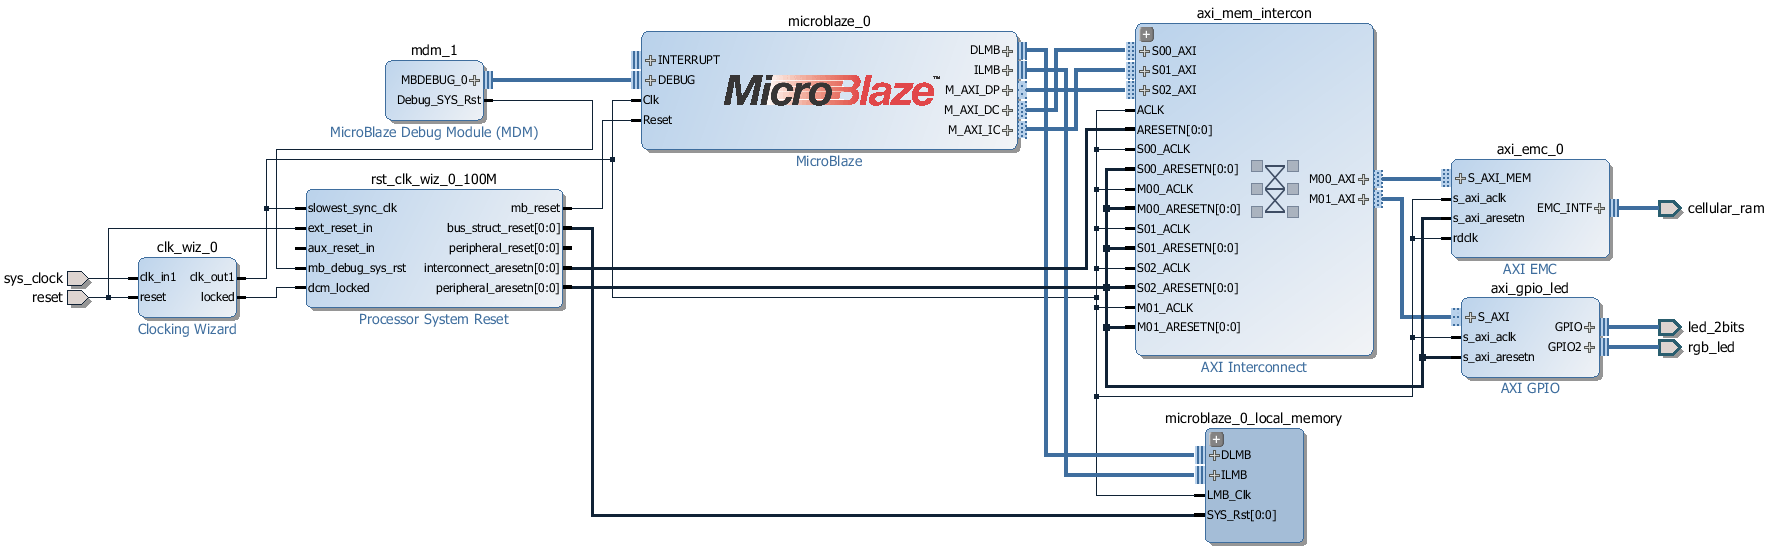
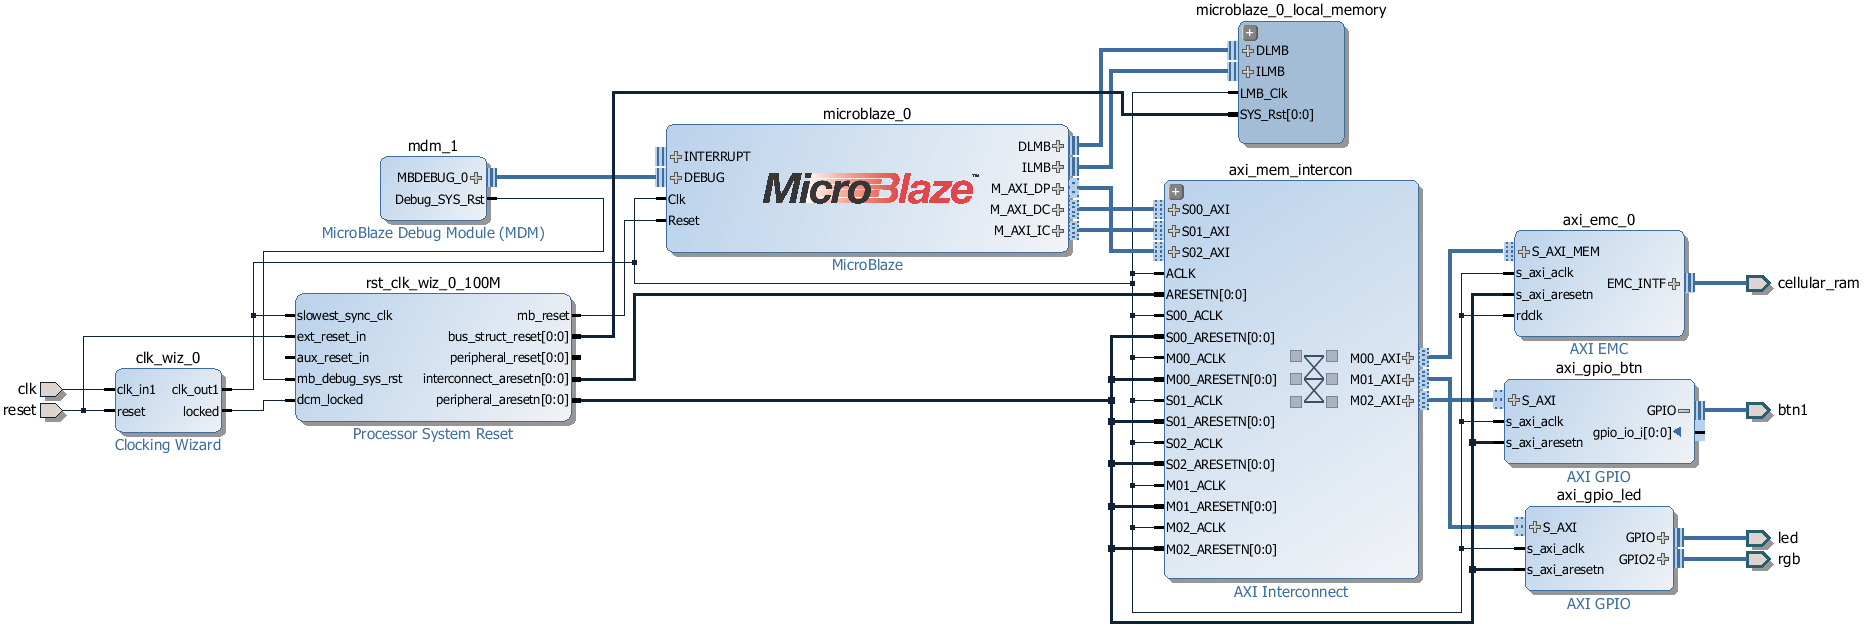
update

diff --git a/cmoda7/helloworld_microblaze/fpga_sw/main.c b/cmoda7/helloworld_microblaze/fpga_sw/main.c
@@ -1,27 +1,18 @@
 #include "xparameters.h"
 #include "xil_io.h"
 
-void ledInit(void){
-	Xil_Out32(XPAR_AXI_GPIO_LED_BASEADDR+4,0); //2 zold LED kimenet
-	Xil_Out32(XPAR_AXI_GPIO_LED_BASEADDR+12,0); //RGB LED kimenet
-	Xil_Out32(XPAR_AXI_GPIO_LED_BASEADDR,0); //zoldek kikapcs
-	Xil_Out32(XPAR_AXI_GPIO_LED_BASEADDR+8,7); //RGB kikapcs
-}
-
-void ledSet(uint8_t greenLeds, uint8_t rgbLeds){
-	Xil_Out32(XPAR_AXI_GPIO_LED_BASEADDR,greenLeds);
-	Xil_Out32(XPAR_AXI_GPIO_LED_BASEADDR+8,~rgbLeds);
-}
-
 int main(void){
-	volatile uint32_t i;
-	uint8_t green=0, rgb=0;
-	ledInit();
+	uint32_t i=0;
+	uint8_t rgb=0, btn;
 	while(1){
-		for(i=0;i<100000;i++) ;
-		ledSet(green,rgb);
-		green=(green==3)?0:(green+1);
-		rgb=(rgb==7)?0:(rgb+1);
+		i++;
+		if(i==100000){
+			i=0;
+			rgb=(rgb==7)?0:(rgb+1);
+			Xil_Out32(XPAR_AXI_GPIO_LED_BASEADDR+8,~rgb);
+		}
+		btn=Xil_In8(XPAR_AXI_GPIO_BTN_BASEADDR);
+		Xil_Out32(XPAR_AXI_GPIO_LED_BASEADDR,(btn<<1)|btn);
 	}
 	return 0;
 }
